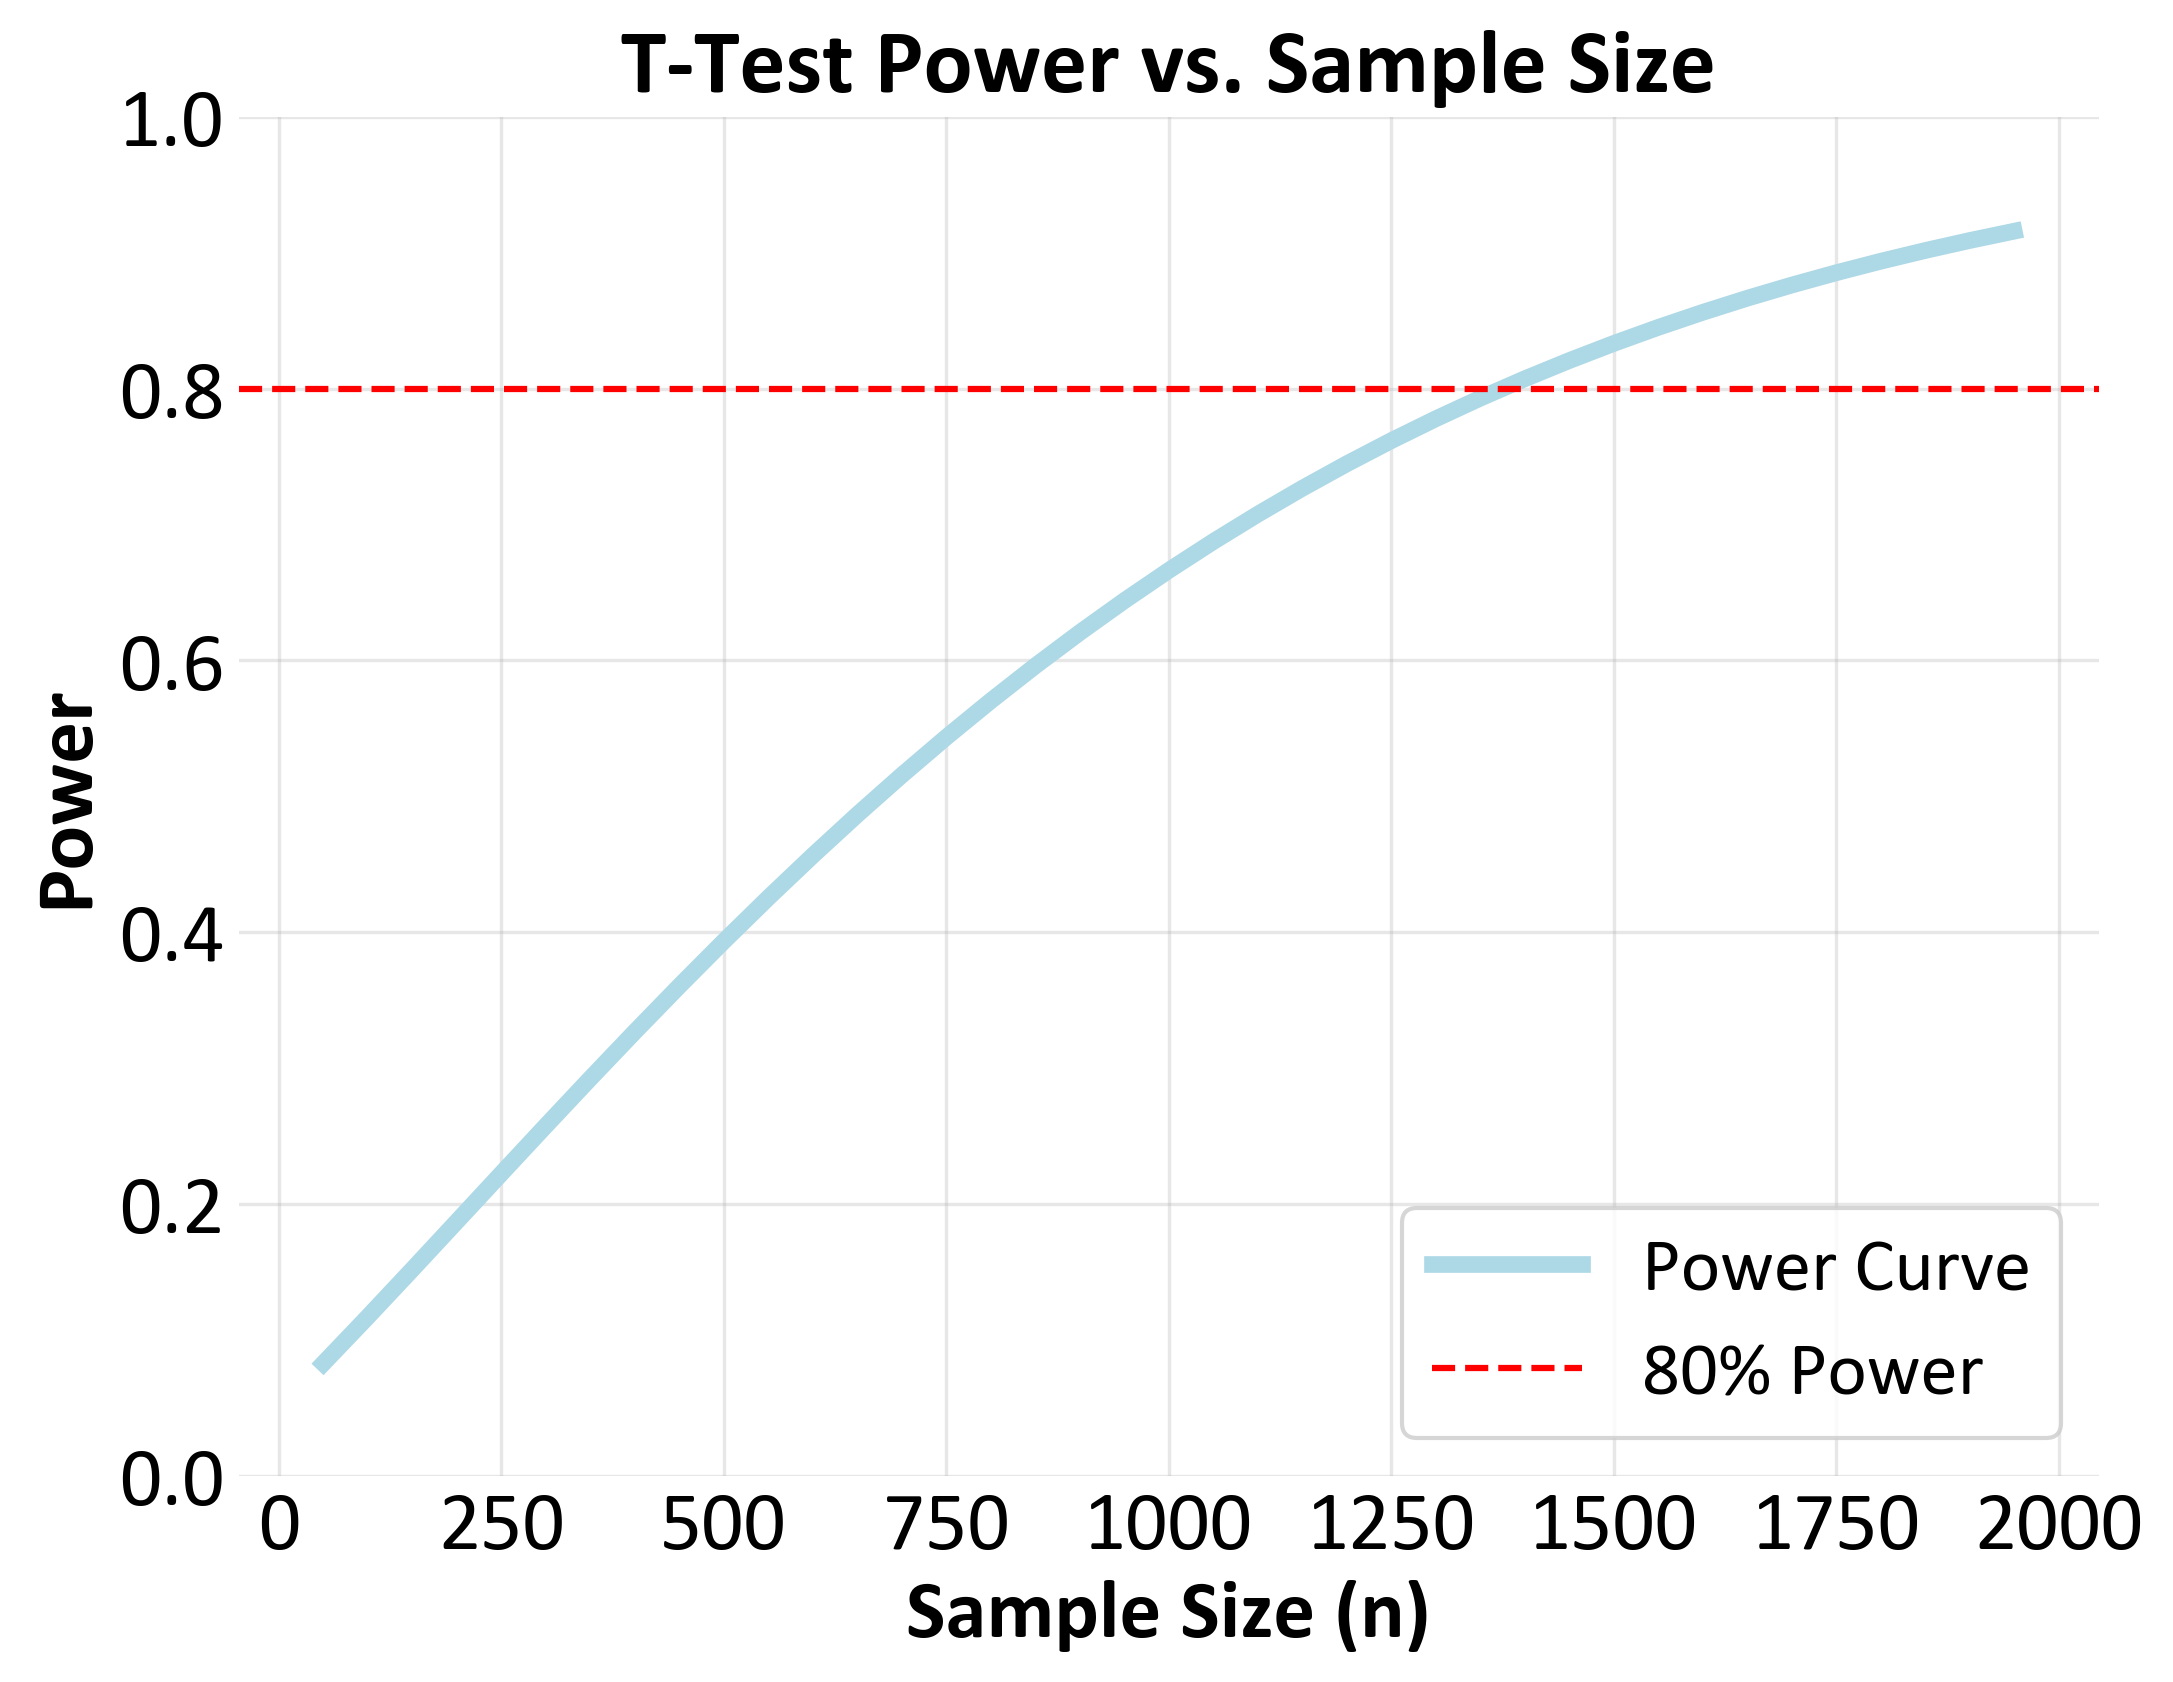
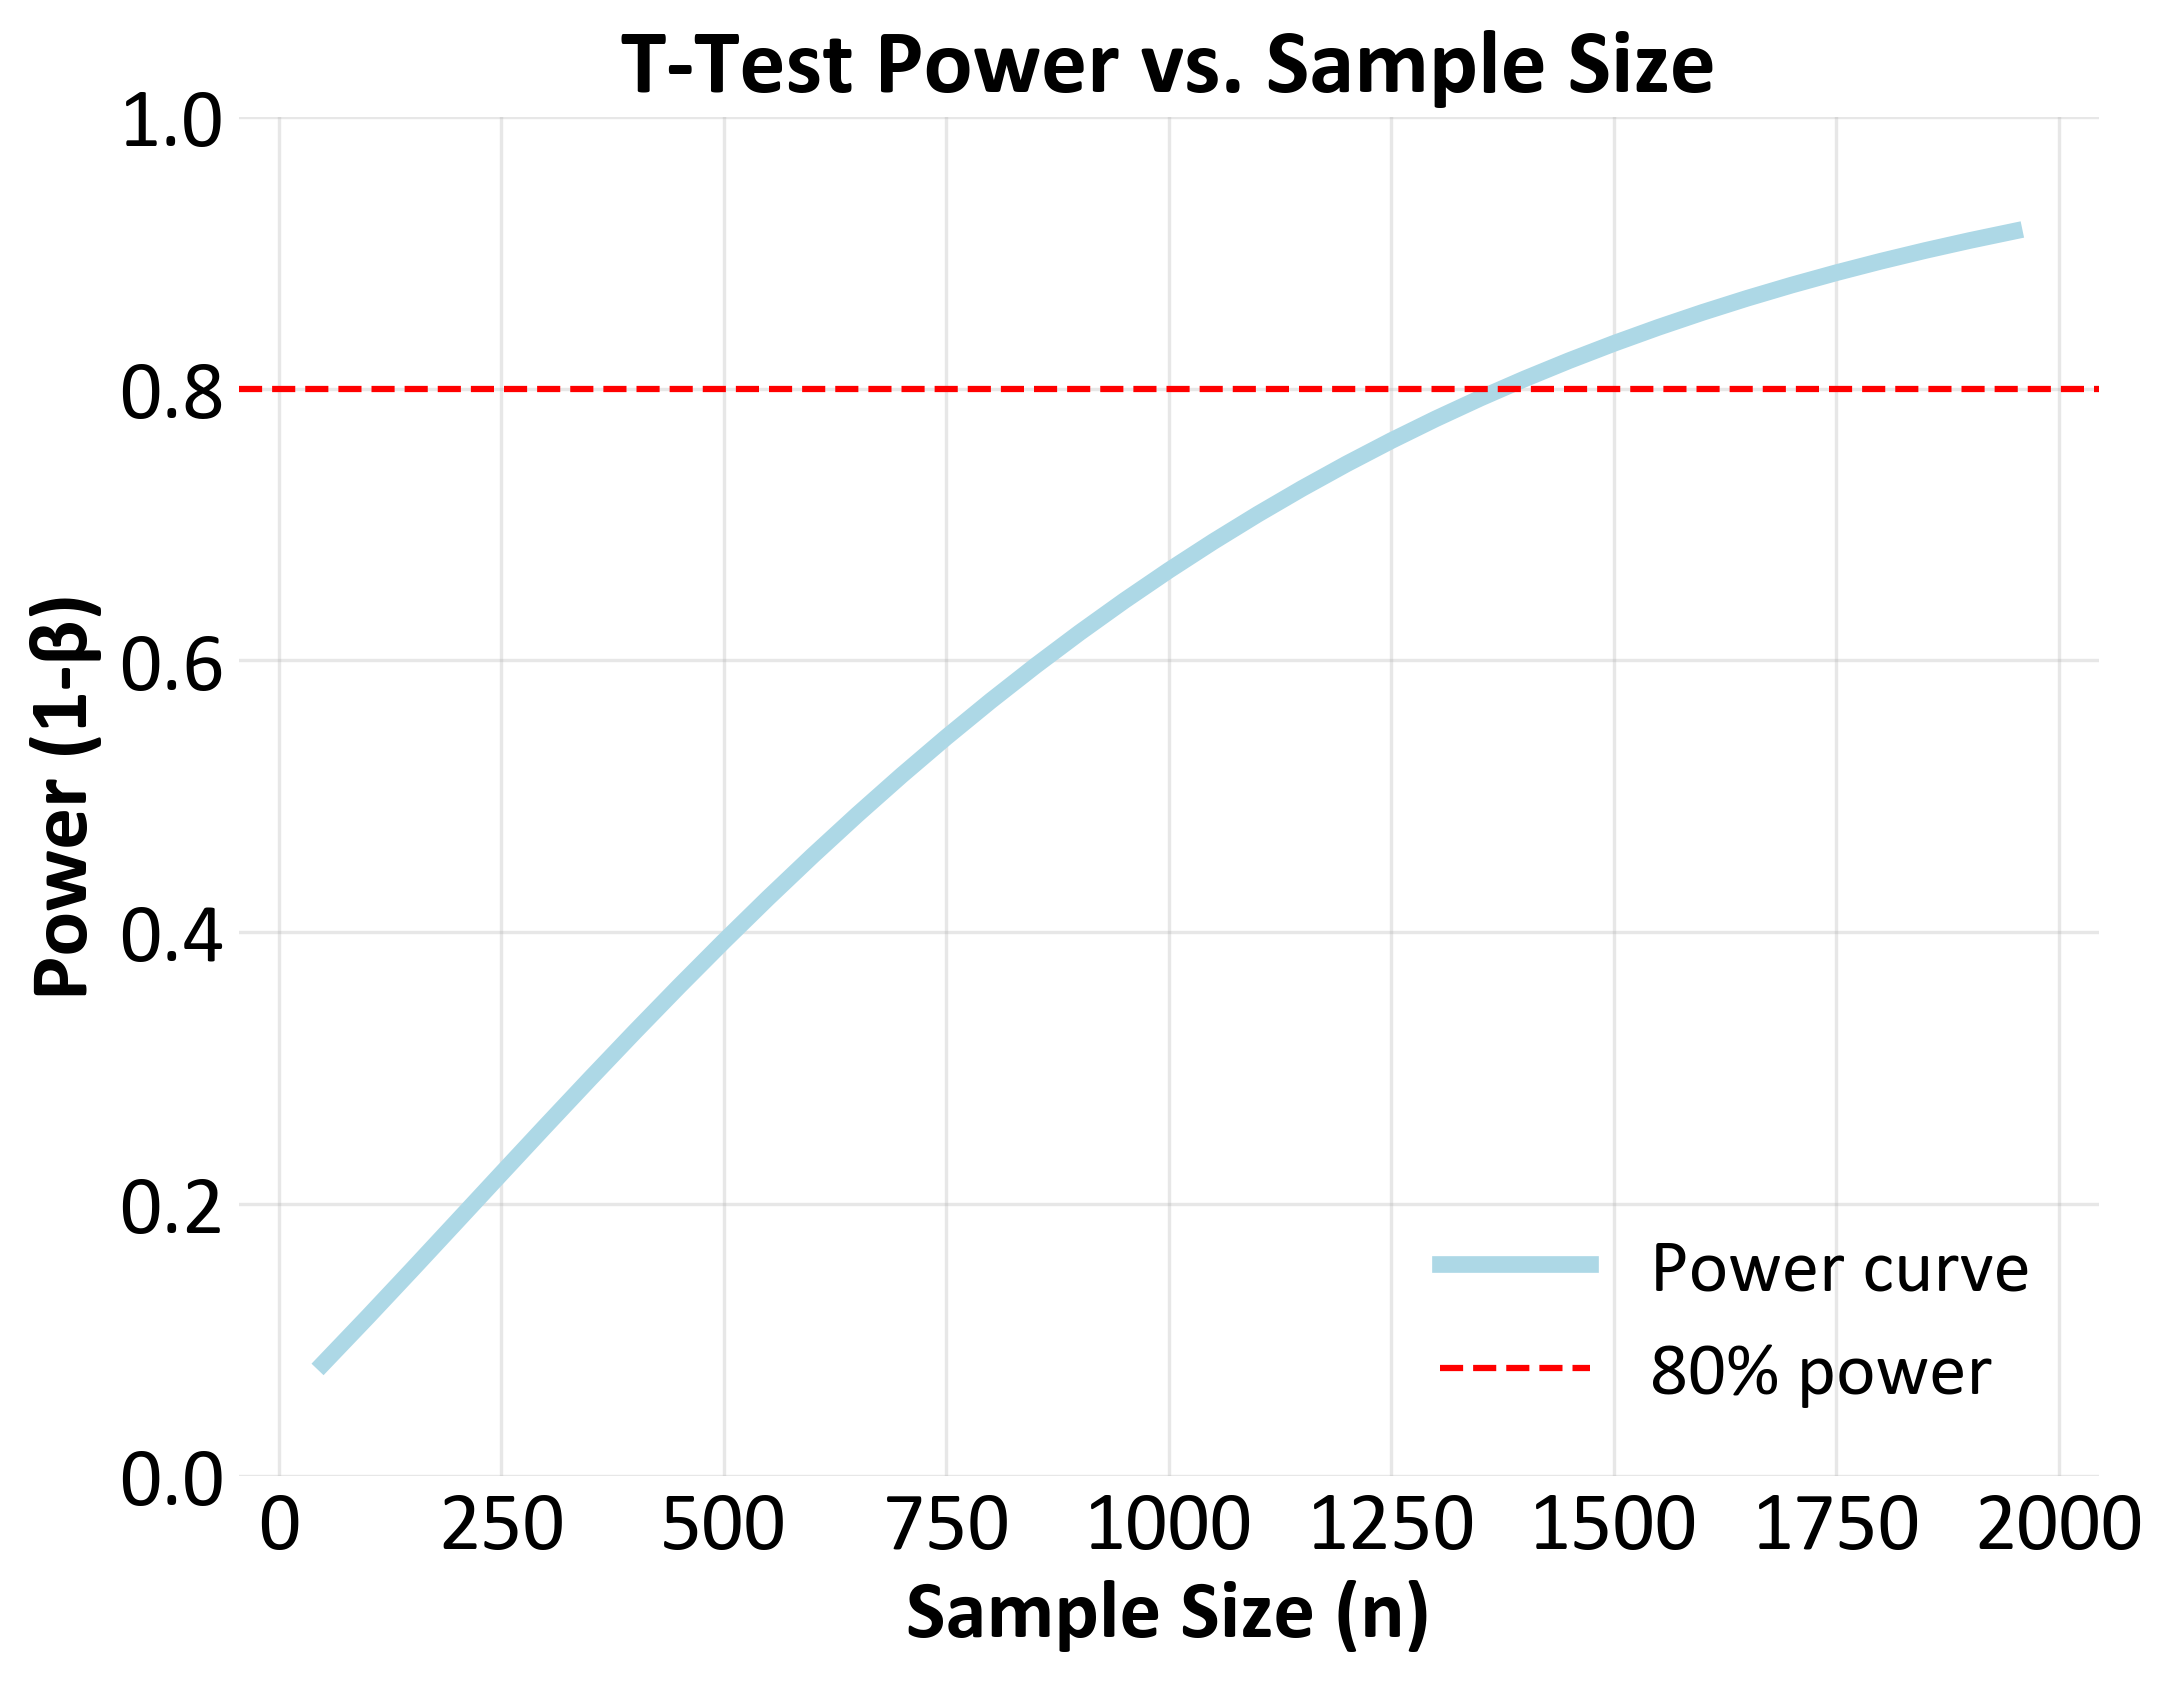
Add files via upload

Changed region(s): [[0.0, 0.3401, 0.0617, 0.5874], [0.74, 0.8038, 0.925, 0.8347], [0.74, 0.7111, 0.8942, 0.7729]]

diff --git a/AB_test_simulation.py b/AB_test_simulation.py
@@ -4,7 +4,7 @@ A/B test simulation
 Simulates an A/B test to compare conversion rates of versions of an app feature. 
 Generates synthetic data for each version, performs a t-test to check if the difference in conversion rates is significant, and visualises the results. 
 Multivariate logistic regression used to examine the effect of age and device type on conversion.
-A power analysis is included to determine the required sample size for statistical power.
+Power analysis included to determine the required sample size.
 
 """
 
@@ -51,12 +51,12 @@ powers = [power_analysis.solve_power(effect_size, nobs1=n, alpha=alpha) for n in
 
 # Plot power vs sample size
 plt.figure(figsize=(8, 6))
-plt.plot(sample_sizes, powers, label='Power Curve', color='lightblue', lw=4)
-plt.axhline(y=0.8, color='red', linestyle='--', label='80% Power')  # Add horizontal line for 80% power
+plt.plot(sample_sizes, powers, label='Power curve', color='lightblue', lw=4)
+plt.axhline(y=0.8, color='red', linestyle='--', label='80% power')  # Add horizontal line for 80% power
 fs=22
 plt.title('T-Test Power vs. Sample Size', fontsize=fs, fontweight='bold')
 plt.xlabel('Sample Size (n)', fontsize=fs-2, fontweight='bold')
-plt.ylabel('Power', fontsize=fs-2, fontweight='bold')
+plt.ylabel('Power (1-\u03B2)', fontsize=fs-2, fontweight='bold')
 plt.ylim(0, 1)
 plt.grid(True, alpha=0.3)
 plt.xticks(fontsize=fs-2)
@@ -68,7 +68,7 @@ plt.gca().spines['left'].set_visible(False)
 plt.gca().spines['bottom'].set_visible(False)
 # Remove x and y tick lines
 plt.tick_params(axis='both', which='both', length=0)
-plt.legend(loc='lower right',fontsize=fs-4)
+plt.legend(loc='lower right', fontsize=fs-4, frameon=False)
 
 # Save plot
 folder = 'C:/Users/bc22/OneDrive/Documents/code/AB_test_simulation/'
